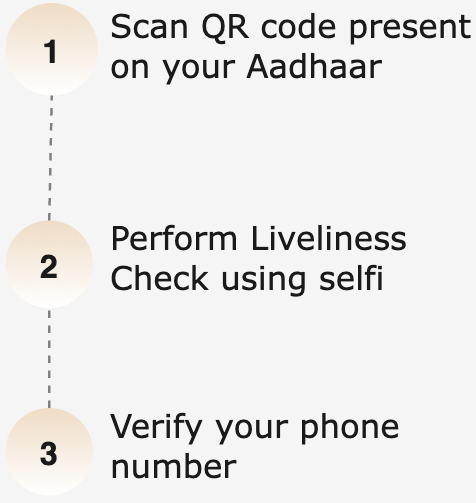
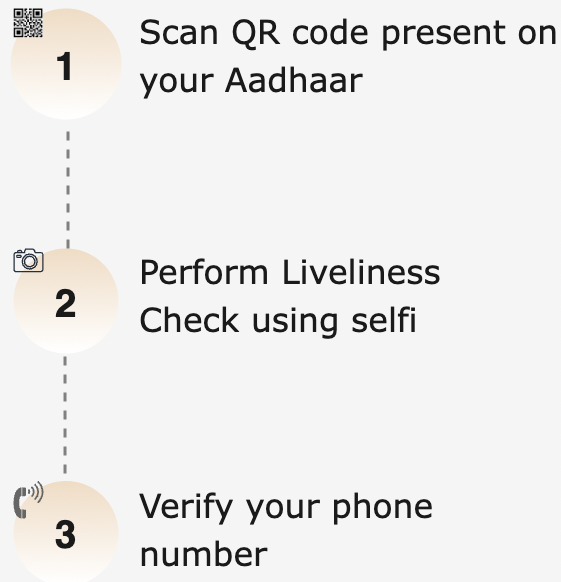
updated UI

diff --git a/src/components/AppScanQR.vue b/src/components/AppScanQR.vue
@@ -7,7 +7,10 @@
     ></load-ing>
     <NavBar />
     <div class="card-body">
-      <h4>Aadhaar Data</h4>
+      <PageHeading
+        :header="'Addhaar Verification'"
+        :subHeader="'Scan QR code on your Addhaar Card'"
+      />
       <div class="scanQR">
         <qrcode-stream
           @detect="onDetect"
@@ -24,21 +27,18 @@
           style="font-size: 170px; color: rgb(59, 58, 58)"
         ></i>
       </div>
-      <span class="">Scan QR code on your Addhaar</span>
-      <span class="">{{ error }}</span>
-      <div style="padding: 10px">
+      <div style="padding: 20px">
         <button
-          class="btn btn-outline-primary"
+          class="btn btn-outline-dark"
           @click="openScanner"
           v-if="!isScan"
         >
           <i class="bi bi-camera"></i> Scan
         </button>
-        <button class="btn btn-link" @click="cancelScanner" v-else>
+        <button class="btn btn-link btn-dark" @click="cancelScanner" v-else>
           Cancel
         </button>
       </div>
-      <ConsentBox />
       <NextPage />
     </div>
     <MessageBox :msg="toastMessage" :type="toastType" v-if="isToast" />
@@ -47,8 +47,6 @@
 </template>
 
 <script type="text/javascript">
-import PoweredBy from "./commons/PoweredBy.vue";
-import ConsentBox from "./commons/ConsentBox.vue";
 import { QrcodeStream } from "vue-qrcode-reader";
 import NextPage from "./commons/NextPage.vue";
 import { mapActions, mapMutations } from "vuex";
@@ -69,8 +67,6 @@ export default {
     };
   },
   components: {
-    PoweredBy,
-    ConsentBox,
     QrcodeStream,
     NextPage,
   },

diff --git a/src/components/AppOtp.vue b/src/components/AppOtp.vue
@@ -7,10 +7,13 @@
     ></load-ing>
     <NavBar />
     <div class="card-body">
-      <h4>Phone Number Verification</h4>
-      <div class="col" v-if="!isPhoneCheckDone">
-        <label for="validationCustom01" class="form-label"
-          >Enter Your Aadhaar Linked Phone Number</label
+      <PageHeading
+        :header="'Verify Phone Number'"
+        :subHeader="'Provide your Aadhaar linked phone number and verify your OTP'"
+      />
+      <div class="col p-2" v-if="!isPhoneCheckDone">
+        <label for="validationCustom01" class="form-label" style="float: left"
+          >Phone Number</label
         >
         <div class="input-group mb-3">
           <span class="input-group-text" id="basic-addon1">+91</span>
@@ -23,11 +26,11 @@
             required
           />
         </div>
-        <button class="btn btn-outline-primary" @click="check()">Next</button>
+        <button class="btn btn-outline-dark" @click="check()">Next</button>
       </div>
 
       <div v-else class="p-2 mb-3">
-        <label for="validationCustom01" class="form-label"
+        <label for="validationCustom01" class="form-label" style="float: left"
           >Enter 4 digits OTP:
         </label>
         <div class="input-group">
@@ -47,7 +50,9 @@
             test...</small
           >
         </div>
-        <button class="btn btn-link" @click="handleClearInput()">Clear</button>
+        <button class="btn btn-link btn-dark" @click="handleClearInput()">
+          Clear
+        </button>
       </div>
       <NextPage />
     </div>

diff --git a/src/components/AppClickPic.vue b/src/components/AppClickPic.vue
@@ -7,8 +7,10 @@
     ></load-ing>
     <NavBar />
     <div class="card-body">
-      <h4>Video KYC</h4>
-
+      <PageHeading
+        :header="'Liveliness Check'"
+        :subHeader="'Open camera and click your picture'"
+      />
       <div class="scanQR web-camera-container">
         <img
           src="../assets/selfi.png"
@@ -45,7 +47,7 @@
           ></canvas>
         </div>
       </div>
-      <span class="">Click Your Picture</span>
+
       <div>
         <div class="" v-if="isCameraOpen && !isLoading">
           <button
@@ -60,7 +62,7 @@
 
         <div style="padding: 10px">
           <button
-            class="btn btn-outline-primary"
+            class="btn btn-outline-dark"
             v-if="isPhotoTaken && isCameraOpen"
             @click="submit()"
           >
@@ -72,8 +74,8 @@
             type="button"
             class="btn"
             :class="{
-              'btn-outline-primary': !isCameraOpen,
-              'btn-link': isCameraOpen,
+              'btn-outline-dark': !isCameraOpen,
+              'btn-link btn-dark': isCameraOpen,
             }"
             @click="toggleCamera"
           >

diff --git a/src/components/AppInstructions.vue b/src/components/AppInstructions.vue
@@ -5,18 +5,26 @@
       :can-cancel="true"
       :is-full-page="fullPage"
     ></load-ing>
-    <!-- <div class="card-header"></div> -->
     <NavBar />
-
-    <img
-      class="card-img opacity-80"
-      src="../assets/page0.png"
-      style="padding: 20px"
-    />
     <div class="card-body">
-      <button class="btn btn-outline-primary" @click="nextStep()">
-        Let's go!
-      </button>
+      <PageHeading
+        :header="'Verify Your Identity Using Aadhaar'"
+        :subHeader="'Follow these simple instructions to verify your Addhaar'"
+      />
+      <div class="">
+        <img
+          class="opacity-80"
+          src="../assets/page0.png"
+          style="padding: 20px"
+          width="100%"
+        />
+        <div class="d-grid gap-1">
+          <button class="btn btn-outline-dark" @click="nextStep()">
+            Let's go!
+          </button>
+        </div>
+        <ConsentBox />
+      </div>
     </div>
     <div class="card-footer">
       <PoweredBy />

diff --git a/src/components/commons/ConsentBox.vue b/src/components/commons/ConsentBox.vue
@@ -1,8 +1,11 @@
 <template>
   <p class="consent-message">
     <span>
-      Note: You are giving consent of your data to Hypersign. We do not store or
-      log your data, we verify and delete it.
+      <!-- Note: You are giving consent of your data to Hypersign. We do not store or
+      log your data, we verify and delete it. -->
+      By continuing, you agree to our
+      <a href="#" target="_blank">terms of use</a> and
+      <a href="#" target="_blank">privacy policy</a>
     </span>
   </p>
 </template>
@@ -10,7 +13,8 @@
 <style type="text/css" scoped>
 .consent-message {
   color: grey;
-  padding: 10px;
-  padding-top: 20px;
+  /* padding: 5px; */
+  padding-top: 5px;
+  font-size: x-small;
 }
 </style>

diff --git a/src/main.js b/src/main.js
@@ -10,11 +10,19 @@ import "vue-loading-overlay/dist/vue-loading.css";
 import "./style/global.css"
 import MessageBox from "./components/commons/MessageBox.vue";
 import NavBar from "./components/commons/NavBar.vue";
+import PageHeading from "./components/commons/PageHeading.vue";
+import PoweredBy from "./components/commons/PoweredBy.vue";
+import ConsentBox from "./components/commons/ConsentBox.vue";
+
 Vue.config.productionTip = false
 
 Vue.component('load-ing', Loading)
 Vue.component('MessageBox', MessageBox)
 Vue.component('NavBar', NavBar);
+Vue.component('PageHeading', PageHeading)
+Vue.component('PoweredBy', PoweredBy);
+Vue.component('ConsentBox', ConsentBox);
+
 new Vue({
   store,
   render: h => h(App)

diff --git a/src/components/commons/PageHeading.vue b/src/components/commons/PageHeading.vue
@@ -1,0 +1,17 @@
+<template>
+  <div>
+    <h1>{{ header }}</h1>
+    <h6 style="color: grey">
+      {{ subHeader }}
+    </h6>
+  </div>
+</template>
+
+<script type="text/javascript">
+export default {
+  props: {
+    header: String,
+    subHeader: String,
+  },
+};
+</script>

diff --git a/src/style/global.css b/src/style/global.css
@@ -7,3 +7,6 @@
     box-shadow: 2px 5px 5px grey;
     margin: 0 auto;
   }
+.btn-dark{
+    color: black
+}
